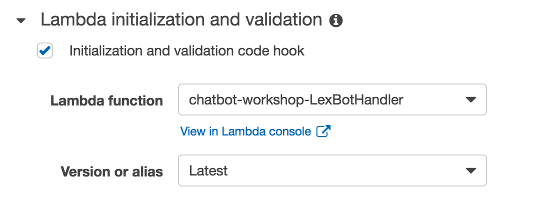
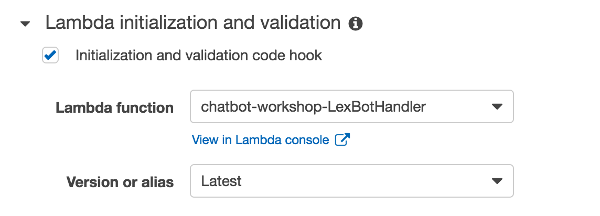
updated screenshots

diff --git a/01_LexBotInformational/Readme.md b/01_LexBotInformational/Readme.md
@@ -223,7 +223,7 @@ Now we are ready to configure Lex to send the detected intent and slot values fr
 
 1. In the **Lambda Initialization and validation** section of the intent, choose **AWS Lambda function** and use the selector to pick the `chatbot-workshop-LexBotHandler` function
 
-	<img src="images/pick-lambda.png" alt="" width="90%">
+	<img src="images/pick-lambda-init.png" alt="" width="90%">
 
 	> There are a handful of other Lambda functions the CloudFormation template created and that they all begin with `chatbot-workshop`, so be sure to select the right one.
 
